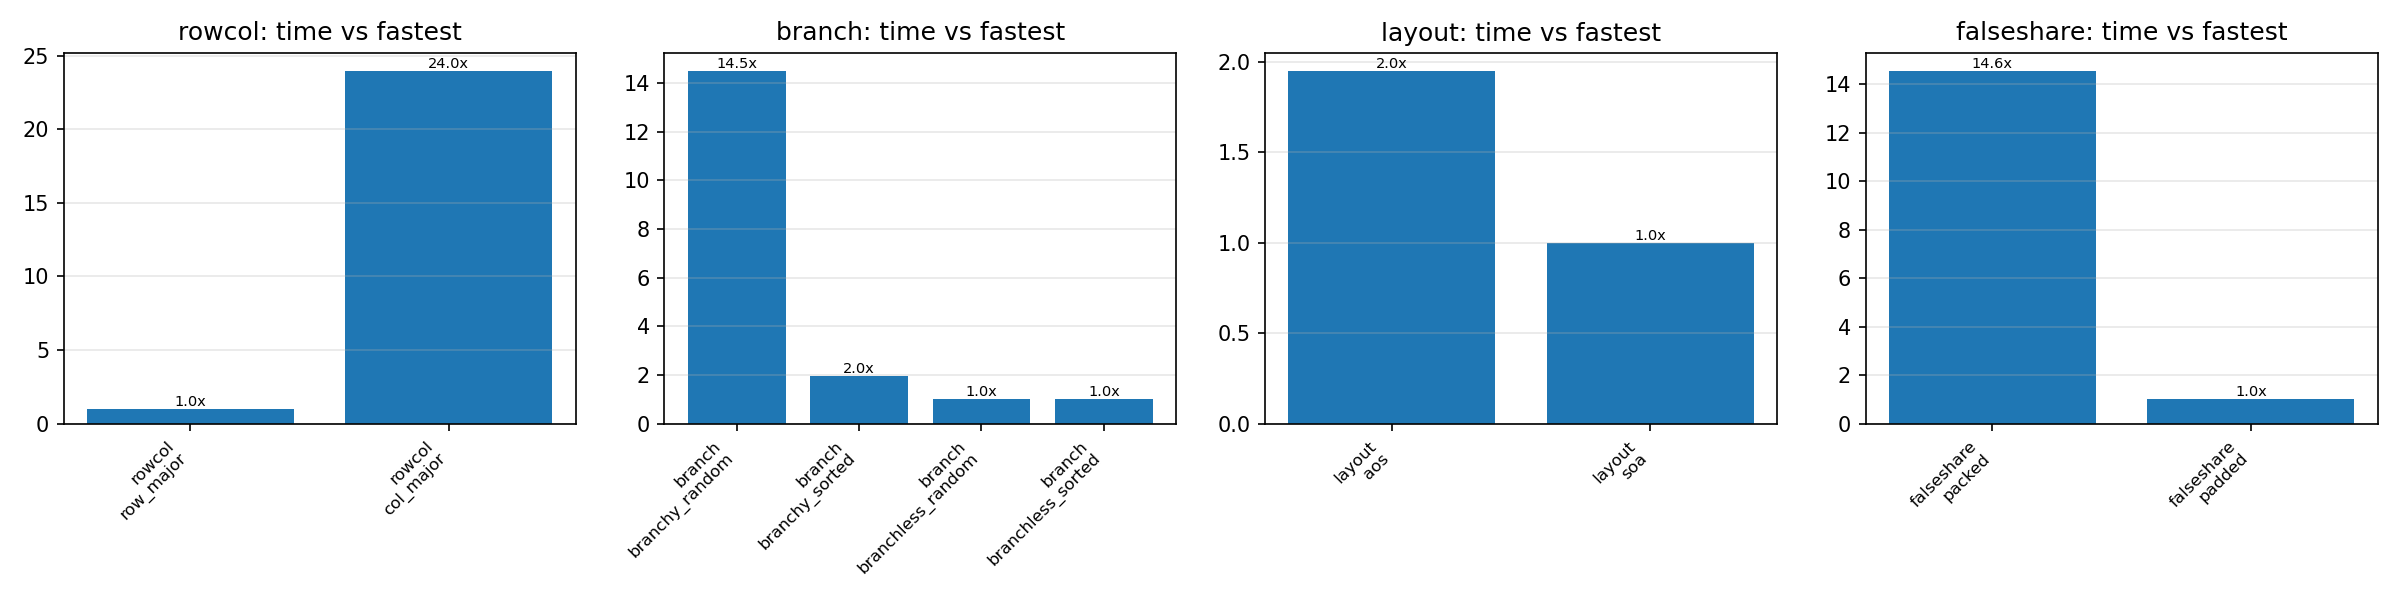
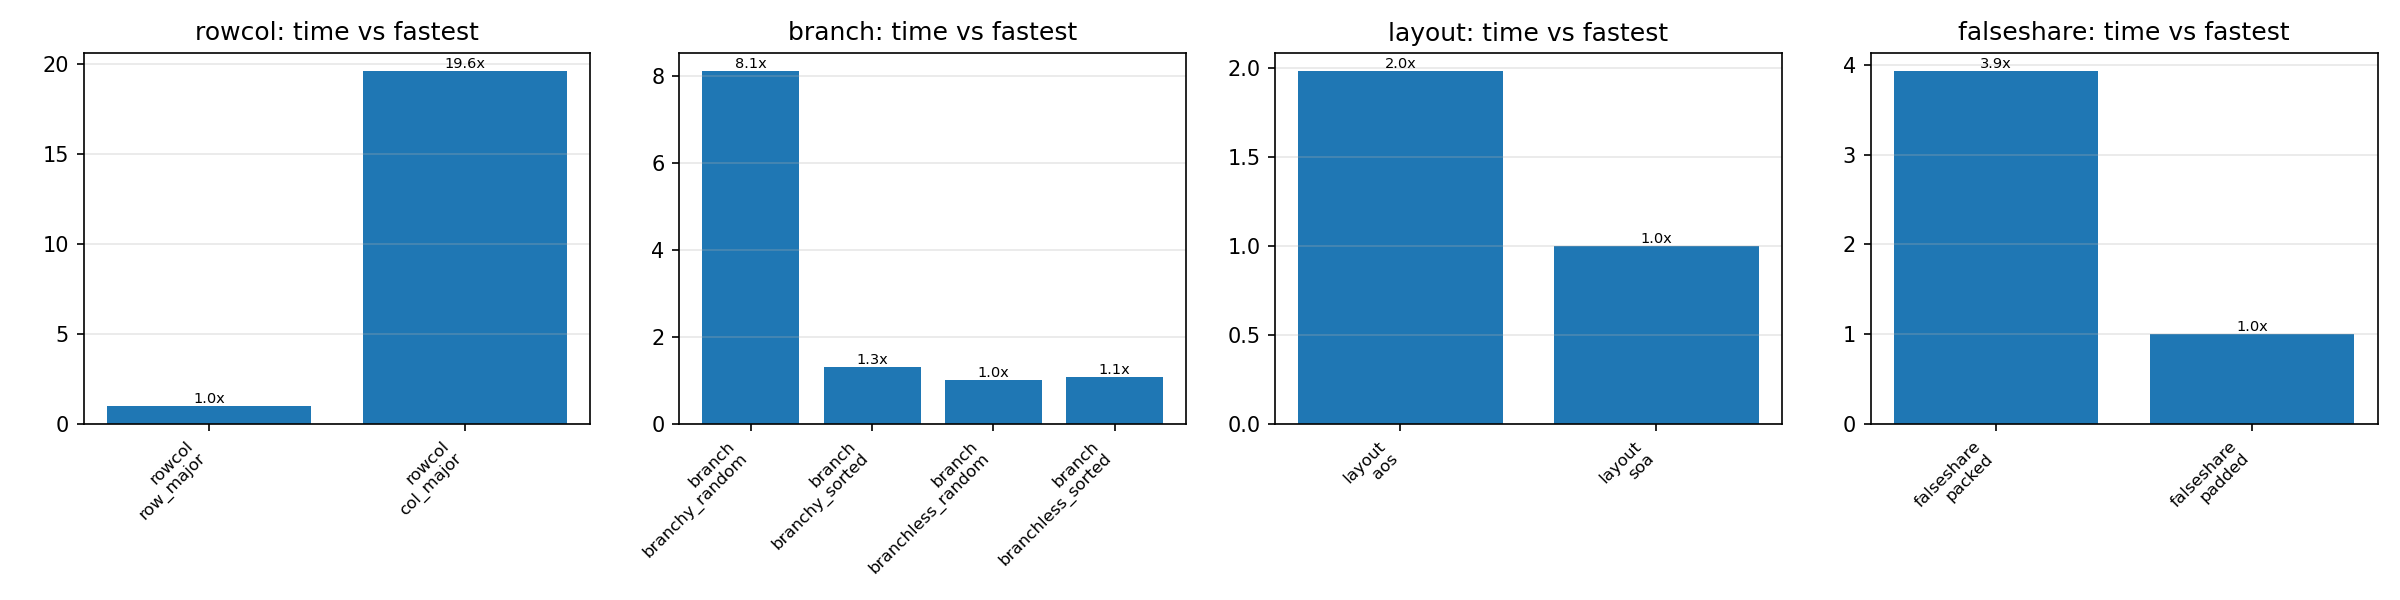
final readme and results with counters

diff --git a/README.md b/README.md
@@ -1,44 +1,94 @@
 # cpuprobe
 [![ci](https://github.com/ishan-barot/cpuprobe/actions/workflows/ci.yml/badge.svg)](https://github.com/ishan-barot/cpuprobe/actions/workflows/ci.yml)
+
 A C++ tool that measures how your CPU's memory hierarchy actually behaves (cache sizes, latencies, miss rates, IPC) using microbenchmarks and Linux hardware performance counters, with Python automation to sweep configs and plot results.
 
-![latency staircase](results/latency_wsl.png)
+![latency staircase](results/wsl/latency.png)
 
-## Key findings (AMD Ryzen 9 5900X, Zen 3, WSL2, DDR4-2400)
-- **L1d (32K):** 0.83 ns per access
-- **L2 (512K):** ~2.45 ns, flat from 48K to 256K
-- **L3 (32M per CCD):** ~10-11 ns from 1M to 4M
-- **DRAM:** ~105-120 ns past 48M
-- **TLB effect:** latency starts climbing around 8M, well before the 32M L3 edge. 8M is exactly what Zen 3's L2 TLB covers (2048 entries x 4K pages), so past that every load also pays for a page walk. Under WSL2 those walks are nested (guest page tables + Hyper-V's), which makes them extra expensive. Native Linux runs are next to separate the two effects.
+## Key findings
+Measured on an AMD Ryzen 9 5900X (Zen 3), Ubuntu 24.04 under WSL2, DDR4 at 2400 MT/s, gcc 13 `-O2`.
+
+**Memory latency** (pointer chase, one core, median of 7 runs)
+
+| Level | Size | Latency |
+|---|---|---|
+| L1d | 32K | 0.75 ns |
+| L2 | 512K | 2.3 ns |
+| L3 | 32M per CCD | 8 to 11 ns (1M to 4M) |
+| DRAM | | ~105 ns |
+
+The steps land right where `/sys` says each cache ends. Latency creeps up between 8M and 16M before the real L3 edge, which lines up with Zen 3's L2 TLB running out (2048 entries x 4K pages = 8M of coverage). Past that point every load also pays for a page walk.
+
+**Good vs bad code, with hardware counters**
+
+| Kernel | Slowdown | What the counters show |
+|---|---|---|
+| Column-major vs row-major matrix sum (64MB) | **22.7x** | L1d misses go from 1.05M to 16.9M, IPC drops from 2.99 to 0.28 |
+| Branchy loop on random vs sorted data | **6.9x** | Branch misses go from 47 to 5,000,005, IPC drops from 3.73 to 0.51 |
+| Array of structs vs struct of arrays | **1.8x** | L1d misses go from 625K to 5.0M |
+| False sharing: two cores writing to one cache line vs separate lines | **11.7x** | IPC drops from 2.90 to 0.22, 32M lines bounced between cores |
+
+![kernel timings](results/wsl/kernels_time.png)
+![kernel counters](results/wsl/kernels_counters.png)
+
+**The counters matched first-principles predictions.** Before running, each miss count can be worked out on paper:
+- Row-major reads 64MB in 64-byte lines, so 64MB / 64B = 1,048,576 L1d misses. Measured: 1,048,973.
+- Column-major jumps 16KB per step, so every one of the 16.7M loads should miss. Measured: 16.9M.
+- 10M random bytes against a `>= 128` check means the predictor is right half the time, so ~5M misses. Measured: 5,000,005.
+- AoS drags 320MB through the cache (5M lines) to use 40MB; SoA reads just the 40MB (625K lines). Measured: 5.0M vs 625K.
 
 ## How it works
-- **Pointer chasing:** each load depends on the previous one (`p = p->next`), so the CPU can't overlap loads, and random order defeats the hardware prefetcher. What's left is raw load-to-use latency.
-- **Sattolo's algorithm:** a shuffle that always produces one single cycle, so the chase visits every node instead of getting stuck in a small loop that stays in cache.
+- **Pointer chasing.** Each load depends on the one before it (`p = p->next`), so the CPU can't overlap them, and the random order defeats the hardware prefetcher. What's left is raw load-to-use latency.
+- **Sattolo's algorithm.** A shuffle that always produces one single cycle, so the chase visits every node instead of getting stuck in a small loop that stays in cache.
 - **One node per 64-byte cache line**, so every hop touches a new line.
+- **`perf_event_open`.** An RAII `PerfGroup` class opens a group of hardware counters (cycles, instructions, L1d misses, cache misses, branch misses) with the first one as group leader, so they all start and stop at the same instant. If the kernel has to multiplex counters, the values get scaled by `time_enabled / time_running` and flagged.
+- **Keeping the comparisons honest.** At `-O2`, gcc and clang quietly turn the branchy loop into a branchless `cmov`, which made the first version of that benchmark show no difference at all. An empty `asm volatile("")` inside the branch keeps it a real branch. Every good/bad pair also has a unit test proving both versions compute the same result.
+- **False sharing.** Each thread pins itself to its own physical core and opens its own counter group, since perf counters only see the thread that opened them. The results get summed afterwards.
 
 ## Methodology
-- Release build (`-O2`), pinned to one core with `sched_setaffinity`
-- One full warm-up lap before timing
-- Each measurement runs for ~100 ms; the reported value is the median of 7 runs
-- Sizes swept in powers of 2 plus 1.5x midpoints (4K, 6K, 8K, 12K...)
+- Release build (`-O2`), never benchmarked with sanitizers on
+- Pinned to one core with `sched_setaffinity` (false sharing uses cores 2 and 4, which are separate physical cores)
+- One warm-up pass before timing
+- Latency: each measurement runs ~100 ms and the reported value is the median of 7 runs
+- Kernels: median of 5 runs, with counters taken from that same median run
+- `scripts/run_sweep.py` records CPU model, kernel version, compiler, governor and git commit next to every result set (see `results/wsl/meta.json`)
 
 ## Build and run
 ```bash
 cmake -S . -B build -DCMAKE_BUILD_TYPE=Release
 cmake --build build -j
 ./build/cpuprobe_tests
-./build/cpuprobe info
-./build/cpuprobe latency --min 4K --max 512M --cpu 2 --csv results/latency.csv
-python3 scripts/plot.py results/latency.csv -o results/latency.png
+
+./build/cpuprobe info                      # cache sizes from /sys
+./build/cpuprobe latency --min 4K --max 512M --csv out.csv
+./build/cpuprobe kernel all --counters     # or rowcol, branch, layout, falseshare
+
+# full sweep + charts
+python3 scripts/run_sweep.py --tag mybox --counters
+python3 scripts/plot.py results/mybox/latency.csv -o results/mybox/latency.png
+python3 scripts/plot_kernels.py results/mybox/kernels.csv -o results/mybox
 ```
+If counters fail with a permission error, run `sudo sysctl kernel.perf_event_paranoid=1` (or `scripts/setup.sh`).
+
+## Testing and CI
+- 19 GoogleTest tests: Sattolo forms exactly one cycle, size parsing, stats, alignment, good/bad kernel pairs agree, counter sanity checks
+- Counter tests skip themselves with `GTEST_SKIP` on machines without a PMU (like GitHub's runners)
+- CI on every push: gcc and clang, Debug build with AddressSanitizer + UndefinedBehaviorSanitizer, all tests, a smoke run of every command, and a `clang-format` check
 
 ## Limitations
-- These results come from WSL2, a VM. Hardware counters aren't available there, and TLB misses cost more than on bare metal.
-- RAM was running at 2400 MT/s (XMP/DOCP off); the kit is rated for 3600.
+- These numbers come from WSL2, which is a Hyper-V VM. Counters work there on this machine, but page walks are nested (guest + host page tables), so TLB-heavy results are likely a bit worse than bare metal.
+- RAM was running at 2400 MT/s with DOCP off; the kit is rated for 3600, so the DRAM numbers are pessimistic.
+- Generic perf events map to different raw events on AMD and Intel. On Zen 3 the generic `cache-misses` event doesn't cleanly mean "L3 misses", so treat the `llc_misses` column as approximate. The L1d and branch counts line up with predictions almost exactly.
+- No frequency control under WSL (no `cpupower`), so boost clocks can add some noise.
+
+## What I learned
+The biggest takeaway was that the compiler is part of the experiment. My first branch benchmark showed sorted and random data running at the same speed, which made no sense until I looked at the assembly and saw `-O2` had already removed the branch. I also learned to predict a counter value before measuring it. When 5,000,005 branch misses showed up after I'd expected 5M, I knew the tool was measuring what I thought it was.
 
 ## Roadmap
-- [x] Pointer-chase latency benchmark + cache info + plots
-- [ ] Native Linux runs, DOCP on
-- [ ] Hardware counters via `perf_event_open` (IPC, cache and branch misses)
-- [ ] Comparison kernels: row vs column, branchy vs branchless, AoS vs SoA, false sharing
-- [ ] CI on GCC and Clang with sanitizers
+- [x] Pointer-chase latency benchmark, cache info, plots
+- [x] Hardware counters via `perf_event_open`
+- [x] Comparison kernels: row vs column, branchy vs branchless, AoS vs SoA, false sharing
+- [x] CI on gcc and clang with sanitizers
+- [ ] Native Linux run with DOCP on, compared against WSL2
+- [ ] Core-to-core latency heatmap (same CCD vs across CCDs)
+- [ ] Huge pages to show the TLB effect shrinking
